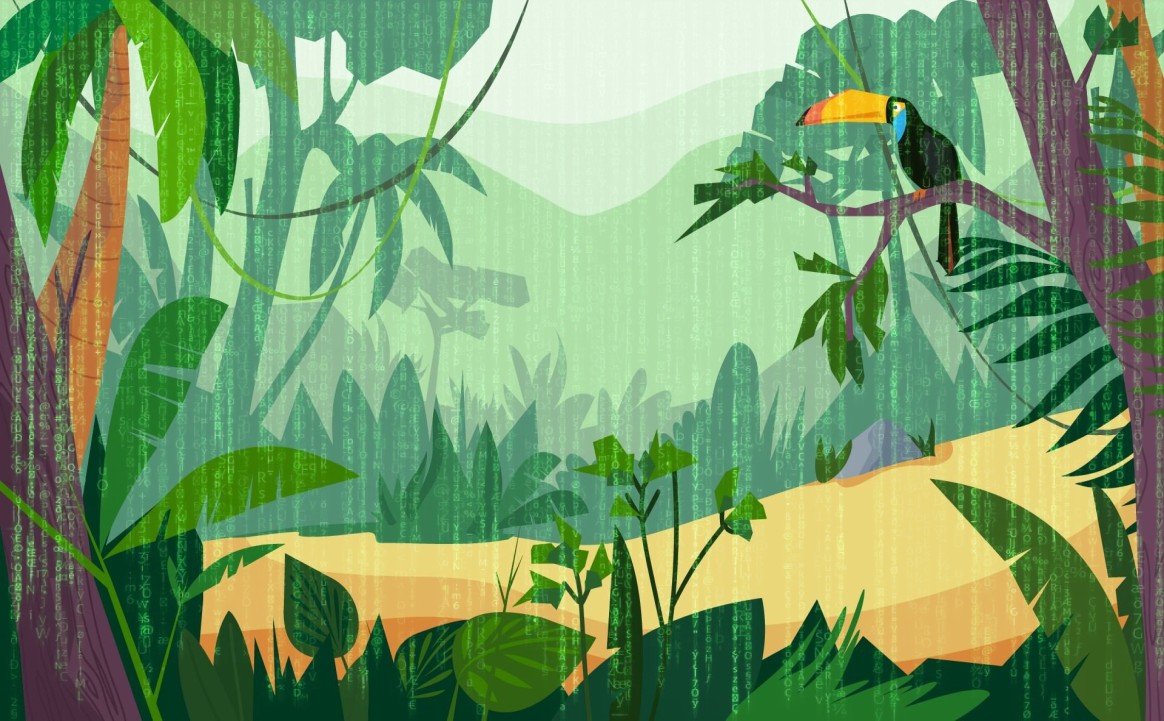
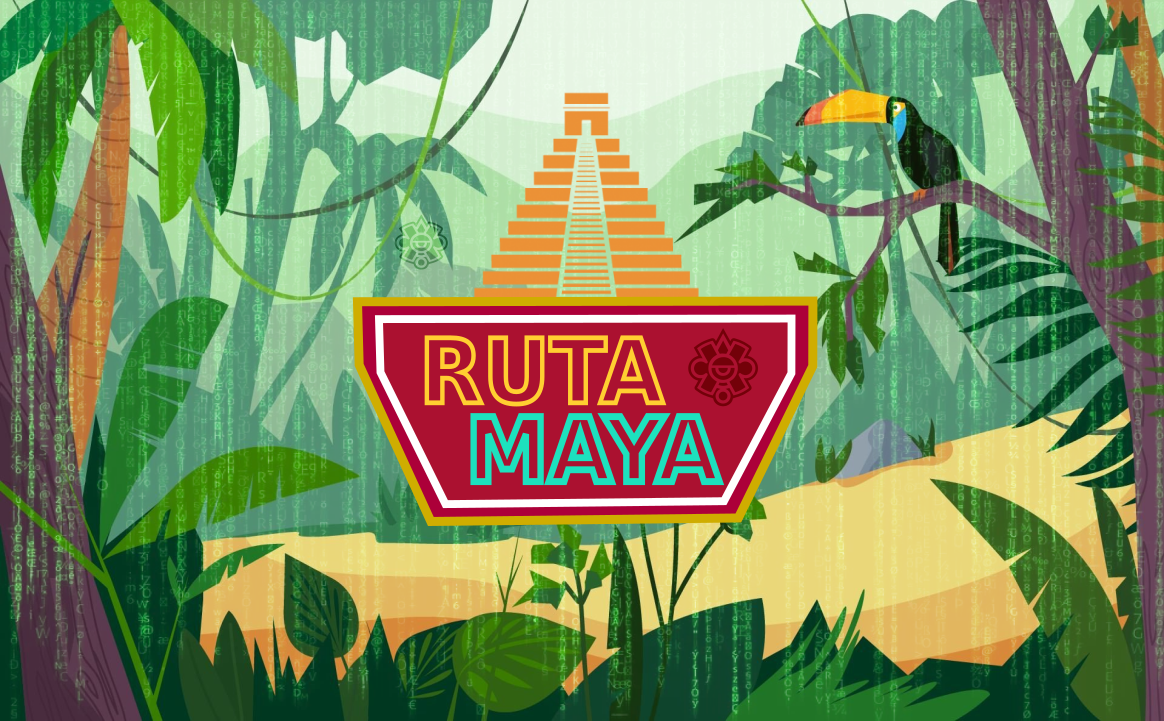
Avance del juego en /src

Changed region(s): [[0.2784, 0.1221, 0.7113, 0.7323]]

diff --git a/src/figuras.py b/src/figuras.py
@@ -1,0 +1,83 @@
+import pygame
+from abc import ABC, abstractmethod
+from listener import *
+from assets.herramientas import *
+from assets.settings import *
+
+pygame.init()
+
+
+class Figura(ABC):
+    def __init__(self, posicion):
+        self.posicion = posicion
+        super().__init__()
+
+    @abstractmethod
+    def dibujar(self):
+        pass
+
+    @abstractmethod
+    def mover(self):
+        pass
+
+
+class Fondo(Figura):
+    def __init__(self, imagen, posicion):
+        self.imagen = pygame.image.load(obtenerPathAbsoluto(imagen, __file__))
+        self.imagen = pygame.transform.scale(
+            self.imagen, settings["tamañoVentana"])
+        super().__init__(posicion)
+
+    def dibujar(self, ventana):
+        ventana.blit(self.imagen, self.posicion.getPosicion())
+
+    def mover(self):
+        pass
+
+
+class Camino(Figura):
+    def __init__(self, imagen, posicion):
+        self.imagen = pygame.image.load(obtenerPathAbsoluto(imagen, __file__))
+        self.imagen = pygame.transform.scale(
+            self.imagen, settings["tamañoCamino"])
+        super().__init__(posicion)
+
+    def dibujar(self, ventana):
+        posicion = self.posicion.getPosicion()
+        ventana.blit(self.imagen, posicion)
+        ventana.blit(
+            self.imagen, (posicion[0], settings["tamañoCamino"][1]))
+
+    def mover(self, desplazamiento, ventana):
+        x, y = self.posicion.getPosicion()
+        alturaImagen = self.imagen.get_rect().height
+        relativoY = y % alturaImagen
+        ventana.blit(self.imagen, (x, relativoY - alturaImagen))
+        if relativoY < settings['tamañoVentana'][1]:
+            ventana.blit(self.imagen, (x, relativoY))
+        self.posicion.actualizarY(y-desplazamiento)
+
+
+class Personaje(Figura):
+    def __init__(self, imagen, posicion):
+        self.imagen = pygame.image.load(obtenerPathAbsoluto(imagen, __file__))
+        self.imagen = pygame.transform.scale(self.imagen, (128, 128))
+        super().__init__(posicion)
+
+    def dibujar(self, ventana):
+        ventana.blit(self.imagen, self.posicion.getPosicion())
+
+    def mover(self):
+        x, y = Listener.captarMouse()
+        tamañoImagen = self.imagen.get_rect()
+        distanciaVereda = (settings["tamañoVentana"]
+                           [0] - settings["tamañoCamino"][0])/2
+        condicionLimiteX = x >= distanciaVereda and x <= settings[
+            "tamañoVentana"][0] - distanciaVereda
+        condicionLimiteY = y >= settings["tamañoVentana"][1] * \
+            0.1 and y <= settings["tamañoVentana"][1]*0.9
+        if(condicionLimiteX and condicionLimiteY):
+            self.posicion.actualizarX(Listener.captarMouse()[
+                0]-tamañoImagen.width/2)
+            self.posicion.actualizarY(Listener.captarMouse()[
+                1]-tamañoImagen.height/2)

diff --git a/src/rutaMaya.py b/src/rutaMaya.py
@@ -1,0 +1,29 @@
+#!/usr/bin/env python3
+import pygame
+from figuras import *
+from posicion import *
+from mensaje import *
+from assets.settings import *
+
+
+pygame.init()
+
+ventana = pygame.display.set_mode(settings["tamañoVentana"])
+fondoJuego = Fondo('img/fondoJuego.png', Posicion(0, 0))
+camino = Camino('img/fondoCamino.png', Posicion(291, 0))
+personaje = Personaje('img/personaje.png', Posicion(129*4, 100))
+mensajeBienvenida = Mensaje('img/fondoBienvenida.png', Posicion(0, 0))
+
+while True:
+    while True:
+        mensajeBienvenida.mostrar(ventana)
+        pygame.display.update()
+
+    fondoJuego.dibujar(ventana)
+    camino.dibujar(ventana)
+    camino.mover(10, ventana)
+    personaje.dibujar(ventana)
+    for event in pygame.event.get():
+        pass
+    personaje.mover()
+    pygame.display.update()

diff --git a/src/mensaje.py b/src/mensaje.py
@@ -1,0 +1,27 @@
+import pygame
+from boton import *
+from posicion import *
+from assets.herramientas import *
+
+pygame.init()
+
+
+class Mensaje:
+    def __init__(self, imagen, posicion):
+        self.imagen = pygame.image.load(obtenerPathAbsoluto(imagen, __file__))
+        self.imagen = pygame.transform.scale(
+            self.imagen, settings["tamañoVentana"])
+        self.boton = []
+        self.posicion = posicion
+
+    def agregarBoton(self, boton):
+        self.boton.append(boton)
+
+    def quitarBoton(self, boton):
+        pass
+
+    def mostrar(self, ventana):
+        ventana.blit(self.imagen, self.posicion.getPosicion())
+
+    def mover(self):
+        pass

diff --git a/src/boton.py b/src/boton.py
@@ -1,0 +1,17 @@
+from pygame import *
+from posicion import *
+from assets.settings import *
+from assets.herramientas import *
+
+
+
+class Boton:
+    def __init__(self, imagen, posicion):
+        self.imagen = pygame.image.load(obtenerPathAbsoluto(imagen, __file__))
+        self.posicion = posicion
+
+    def render(self):
+        pygame.blit(self.image)
+
+    def onClic(self, function):
+        function()

diff --git a/rutamaya/rutamaya.py b/rutamaya/rutamaya.py
@@ -17,7 +17,7 @@ def comenzar():
 
     vida_personaje = 0
 
-    personaje = pygame.image.load("rutamaya/personaje2.png").convert()
+    personaje = pygame.image.load("personaje2.png")
     personaje.set_colorkey([0, 0, 0])  # retirar fondo
 
     # personaje = personaje_niña().dibujar()  #Ya no porque toca mandar el método blit

diff --git a/src/assets/herramientas.py b/src/assets/herramientas.py
@@ -1,0 +1,9 @@
+import os
+
+
+# Este método permite obtener una dirección absoluta de un fichero o archivo
+def obtenerPathAbsoluto(pathRelativo, file):
+    pathAbsolutoScript = os.path.dirname(file)
+    print(pathAbsolutoScript)
+    pathAbsoluto = os.path.join(pathAbsolutoScript, pathRelativo)
+    return pathAbsoluto

diff --git a/src/posicion.py b/src/posicion.py
@@ -1,0 +1,12 @@
+class Posicion:
+    def __init__(self, x, y):
+        self.x, self.y = x, y
+
+    def getPosicion(self):
+        return self.x, self.y
+
+    def actualizarX(self, nuevoX):
+        self.x = nuevoX
+
+    def actualizarY(self, nuevoY):
+        self.y = nuevoY

diff --git a/src/assets/settings.py b/src/assets/settings.py
@@ -1,0 +1,7 @@
+settings = {
+    "tamañoVentana": (1164, 721),
+    "tamañoCamino": (582, 721),
+    "tamañoPersonaje": (10, 20),
+    "nombre": "Ruta Maya",
+    "icon": "",
+}

diff --git a/src/listener.py b/src/listener.py
@@ -1,0 +1,10 @@
+import pygame
+from listener import *
+
+pygame.init()
+
+
+class Listener:
+    @staticmethod
+    def captarMouse():
+        return pygame.mouse.get_pos()
